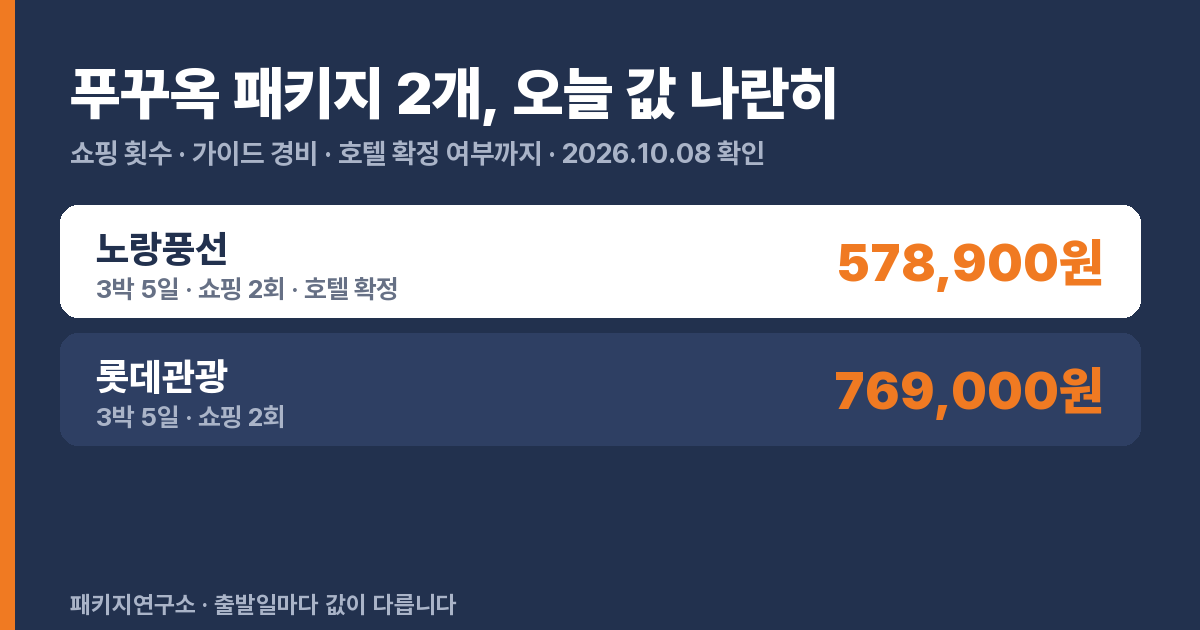
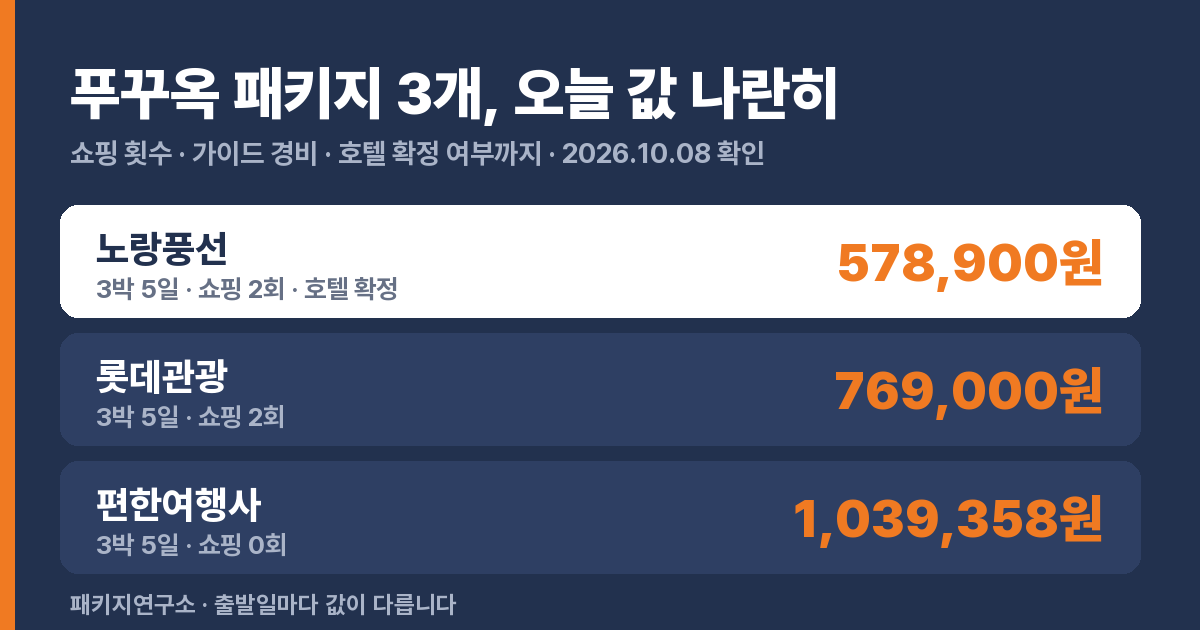
목적지 비교 페이지 2026.10.08

diff --git a/d/phuquoc.html b/d/phuquoc.html
@@ -1,8 +1,8 @@
 <!doctype html><html lang="ko"><head>
 <meta charset="utf-8"><meta name="viewport" content="width=device-width,initial-scale=1">
 <title>푸꾸옥 패키지 비교 — 패키지연구소</title>
-<meta name="description" content="푸꾸옥 패키지 2개를 가격·쇼핑 횟수·가이드 경비·호텔 확정 여부로 나란히 놓고 비교합니다.">
-<link rel="canonical" href="https://package-researcher.github.io/d/phuquoc.html"><meta property="og:type" content="website"><meta property="og:url" content="https://package-researcher.github.io/d/phuquoc.html"><meta property="og:title" content="푸꾸옥 패키지 2개, 나란히 비교"><meta property="og:description" content="가격·쇼핑 횟수·가이드 경비·호텔 확정 여부 · 오늘 기준 요금"><meta property="og:image" content="https://package-researcher.github.io/d/og/phuquoc.png"><meta property="og:image:width" content="1200"><meta property="og:image:height" content="630"><meta name="twitter:card" content="summary_large_image"><script type="application/ld+json">{"@context": "https://schema.org", "@graph": [{"@type": "WebPage", "name": "푸꾸옥 패키지 2개 비교", "url": "https://package-researcher.github.io/d/phuquoc.html", "publisher": {"@type": "Organization", "name": "패키지연구소", "url": "https://package-researcher.github.io/", "logo": "https://package-researcher.github.io/logo.png", "sameAs": ["https://www.youtube.com/@package-researcher", "https://www.instagram.com/package_researcher", "https://www.threads.net/@package_researcher", "https://clip.naver.com/@packagelabs", "https://blog.naver.com/robotnady10", "https://spnd.tistory.com"]}}, {"@type": "BreadcrumbList", "itemListElement": [{"@type": "ListItem", "position": 1, "name": "패키지연구소", "item": "https://package-researcher.github.io/"}, {"@type": "ListItem", "position": 2, "name": "푸꾸옥 패키지 비교", "item": "https://package-researcher.github.io/d/phuquoc.html"}]}]}</script>
+<meta name="description" content="푸꾸옥 패키지 3개를 가격·쇼핑 횟수·가이드 경비·호텔 확정 여부로 나란히 놓고 비교합니다.">
+<link rel="canonical" href="https://package-researcher.github.io/d/phuquoc.html"><meta property="og:type" content="website"><meta property="og:url" content="https://package-researcher.github.io/d/phuquoc.html"><meta property="og:title" content="푸꾸옥 패키지 3개, 나란히 비교"><meta property="og:description" content="가격·쇼핑 횟수·가이드 경비·호텔 확정 여부 · 오늘 기준 요금"><meta property="og:image" content="https://package-researcher.github.io/d/og/phuquoc.png"><meta property="og:image:width" content="1200"><meta property="og:image:height" content="630"><meta name="twitter:card" content="summary_large_image"><script type="application/ld+json">{"@context": "https://schema.org", "@graph": [{"@type": "WebPage", "name": "푸꾸옥 패키지 3개 비교", "url": "https://package-researcher.github.io/d/phuquoc.html", "publisher": {"@type": "Organization", "name": "패키지연구소", "url": "https://package-researcher.github.io/", "logo": "https://package-researcher.github.io/logo.png", "sameAs": ["https://www.youtube.com/@package-researcher", "https://www.instagram.com/package_researcher", "https://www.threads.net/@package_researcher", "https://clip.naver.com/@packagelabs", "https://blog.naver.com/robotnady10", "https://spnd.tistory.com"]}}, {"@type": "BreadcrumbList", "itemListElement": [{"@type": "ListItem", "position": 1, "name": "패키지연구소", "item": "https://package-researcher.github.io/"}, {"@type": "ListItem", "position": 2, "name": "푸꾸옥 패키지 비교", "item": "https://package-researcher.github.io/d/phuquoc.html"}]}]}</script>
 <style>
 *{box-sizing:border-box}
 body{margin:0;background:#F7F5EF;color:#22314E;word-break:keep-all;overflow-wrap:anywhere;
@@ -41,7 +41,7 @@ h1{font-size:27px;line-height:1.3;margin:6px 0 4px;letter-spacing:-.02em}
 </style></head><body><div class="wrap">
 <a class="back" href="https://package-researcher.github.io/">← 패키지연구소</a>
 <h1>푸꾸옥 패키지, 나란히 놓고 비교</h1>
-<p class="sub">2개 · 2026.10.08 기준 · 값싼 순</p>
+<p class="sub">3개 · 2026.10.08 기준 · 값싼 순</p>
 <div class="note"><b>이 표를 보는 법.</b> 값만 보면 안 됩니다.
 <b>쇼핑 횟수</b>가 값을 만들고(0회면 보통 20만원 이상 비쌉니다),
 <b>가이드 경비</b>는 현지에서 따로 내는 돈이며,
@@ -49,6 +49,7 @@ h1{font-size:27px;line-height:1.3;margin:6px 0 4px;letter-spacing:-.02em}
 같은 목적지라도 이 셋으로 실제 부담이 갈립니다.</div>
 <div class="card best"><div class="tag">최저가</div> <div class="tag gray">호텔 확정</div><div class="name">푸꾸옥 패키지 3박5일 홈쇼핑 방영 무엉탄럭셔리 호핑투어 혼똔섬 마사지90분 트리니티항공</div><div class="price">578,900원<span>1인</span></div><div class="grid"><div class="kv"><b>여행사</b>노랑풍선</div><div class="kv"><b>일정</b>3박 5일</div><div class="kv"><b>항공</b>트리니티항공 직항</div><div class="kv"><b>출발</b>19:00</div><div class="kv"><b>쇼핑</b>2회</div><div class="kv"><b>가이드 경비</b>50달러</div><div class="kv"><b>식사</b>8회</div><div class="kv"><b>호텔</b>므엉 탄 럭셔리 푸꾸옥 호텔</div><div class="kv"><b>인솔자</b>없음</div></div><div class="fit"><span class="ok">좋은 점</span> 직항 · 호텔 미리 확정<br><span class="no">따져볼 점</span> 가이드 경비 현지 50달러</div><a class="go" href="https://naver.me/5CCSTnx0" target="_blank" rel="sponsored noopener">오늘 기준 요금 보기</a></div>
 <div class="card"> <div class="tag gray">영상으로 따져봄</div><div class="name">부산 [NO옵션] 푸꾸옥 5일 5성급숙소 썬월드케이블카 빈펄사파리 키스오브더씨 마사지90분 야시장2회</div><div class="price">769,000원<span>1인</span></div><div class="grid"><div class="kv"><b>여행사</b>롯데관광</div><div class="kv"><b>일정</b>3박 5일</div><div class="kv"><b>항공</b>비엣젯항공 직항</div><div class="kv"><b>출발</b>07:35</div><div class="kv"><b>쇼핑</b>2회</div><div class="kv"><b>가이드 경비</b>50달러</div><div class="kv"><b>식사</b>11회</div><div class="kv"><b>인솔자</b>없음</div></div><div class="fit"><b>추천</b> · <span class="ok">맞는 분</span> 부산·경남 거주 — 김해 아침 직항<br><span class="no">안 맞는 분</span> 귀국 밤 비행기(23:10 → 06:40)가 힘든 분</div><div style="margin:10px 0 2px;font-size:14px">▶ <a href="https://youtu.be/7VD7sdtJxAM" target="_blank" rel="noopener">이 상품 따져본 영상</a> · <a href="https://package-researcher.github.io/a/pqc_lottetour_20261013.html?s=cmp">표·계산 글</a></div><a class="go" href="https://naver.me/5ECZGrbx" target="_blank" rel="sponsored noopener">오늘 기준 요금 보기</a></div>
+<div class="card"><div class="name">노쇼핑 VVIP 풀패키지 [푸꾸옥 베스트 웨스턴 3박5일] 선월드/빈펄 사파리 1일 1마사지 - 비엣젯항공 인천 오전 출발</div><div class="price">1,039,358원<span>1인</span></div><div class="grid"><div class="kv"><b>여행사</b>편한여행사</div><div class="kv"><b>일정</b>3박 5일</div><div class="kv"><b>항공</b>비엣젯항공 직항</div><div class="kv"><b>출발</b>05:00</div><div class="kv"><b>쇼핑</b>0회</div><div class="kv"><b>가이드 경비</b>50달러</div><div class="kv"><b>식사</b>9회</div><div class="kv"><b>자유일정</b>1일</div><div class="kv"><b>인솔자</b>없음</div></div><div class="fit"><span class="ok">좋은 점</span> 쇼핑 없음 · 직항<br><span class="no">따져볼 점</span> 가이드 경비 현지 50달러</div><a class="go" href="https://naver.me/G7NOYDNe" target="_blank" rel="sponsored noopener">오늘 기준 요금 보기</a></div>
 <div class="note" style="margin-top:18px"><b>이 중 맞는 상품이 없다면 — 직접 짜실 분</b><ul style="margin:8px 0 0;padding-left:18px;line-height:1.9"><li>✈ 인천→푸꾸옥 직항 왕복 <b>384,280원</b>부터 (10/27 출발 · 1인 · 조회값) — <a href="https://myrealt.rip/tWVq38" target="_blank" rel="noopener">항공권 보기</a></li><li>🎫 [즉시확정] 푸꾸옥 혼똔섬 케이블카 티켓 · 39,375원부터 — <a href="https://myrealt.rip/tO7Y84" target="_blank" rel="noopener">보기</a></li><li>🎫 푸꾸옥 썬월드 혼똔섬 케이블카 QR티켓 입장권 키스브릿지 와우패스 · 48,200원부터 — <a href="https://myrealt.rip/tO7a67" target="_blank" rel="noopener">보기</a></li></ul><div style="color:#98A2B3;font-size:12px;margin-top:6px">항공값은 마이리얼트립에 저장된 최저 운임이라 실제 검색값과 다를 수 있습니다.</div></div>
 <div class="foot">
 가격은 2026.10.08 확인한 성인 1인 표시가입니다. 출발일에 따라 달라집니다.<br>
